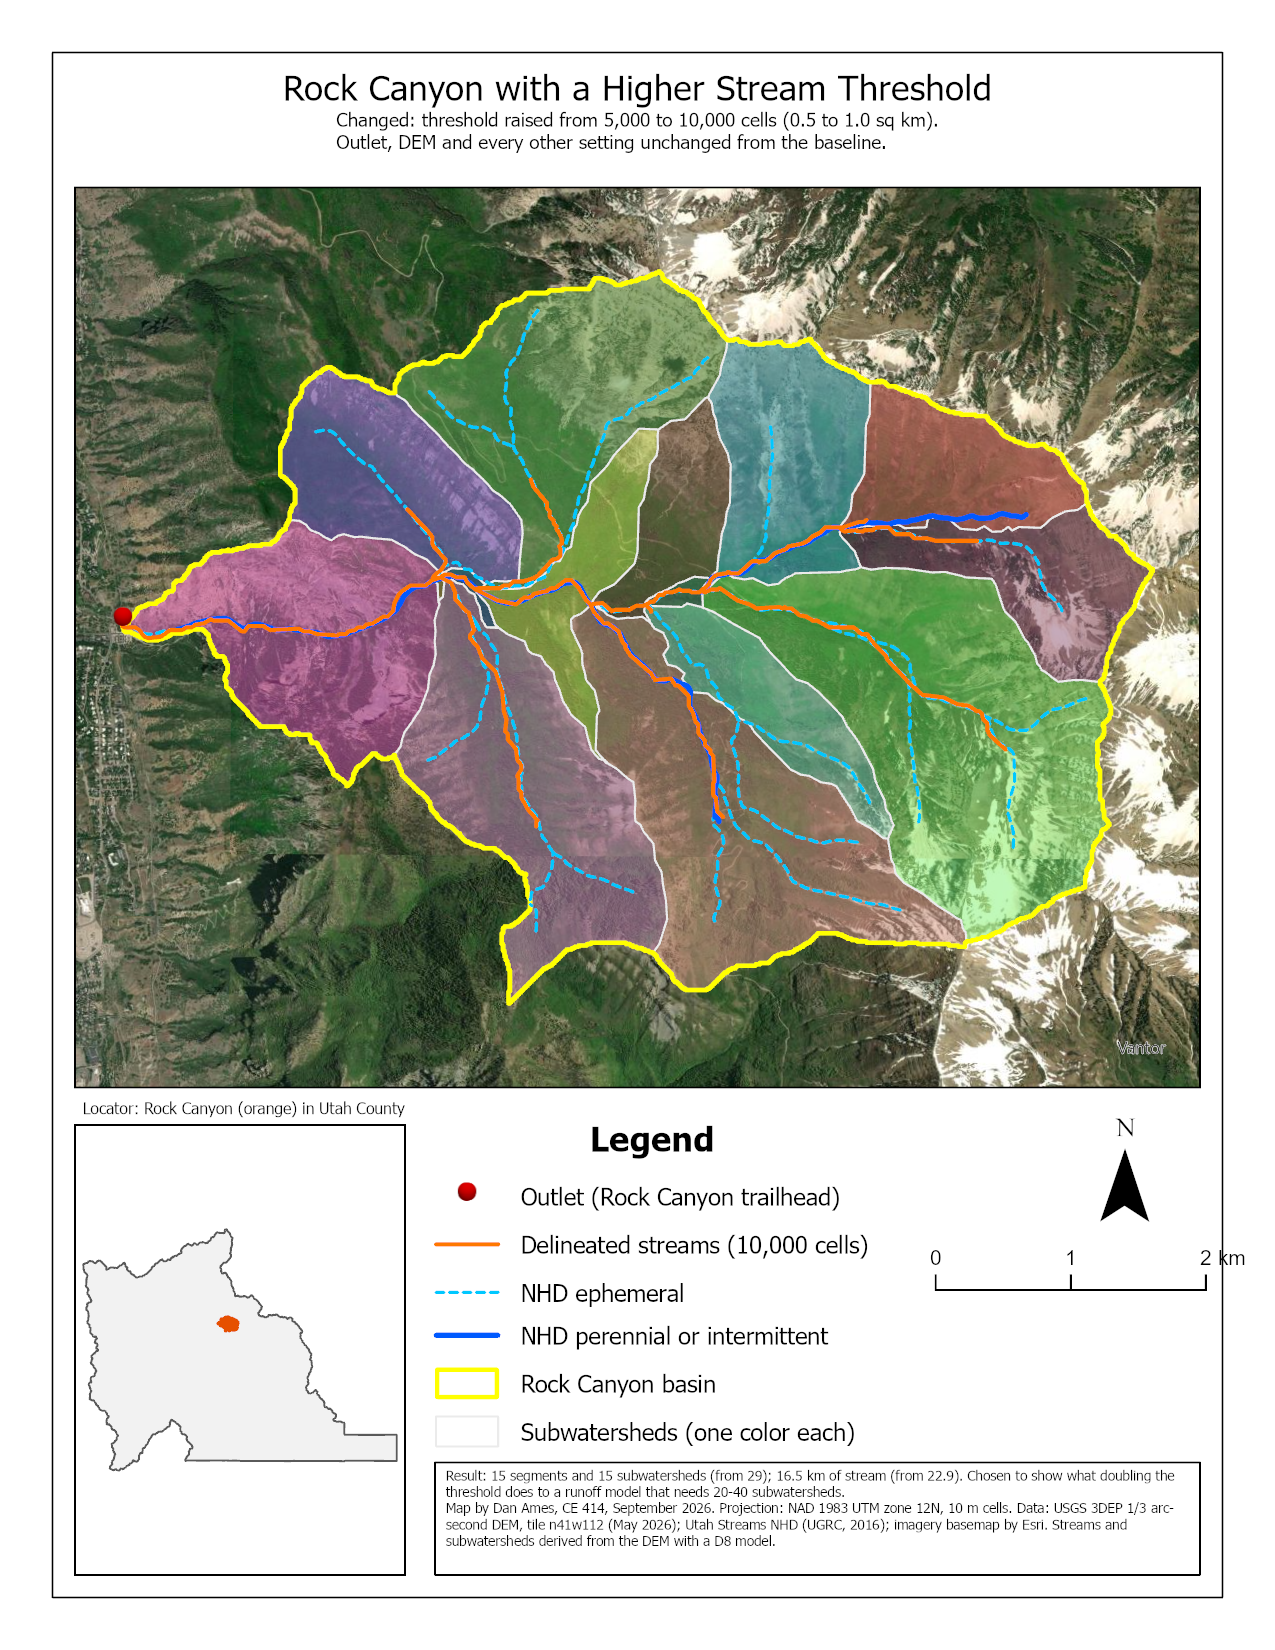
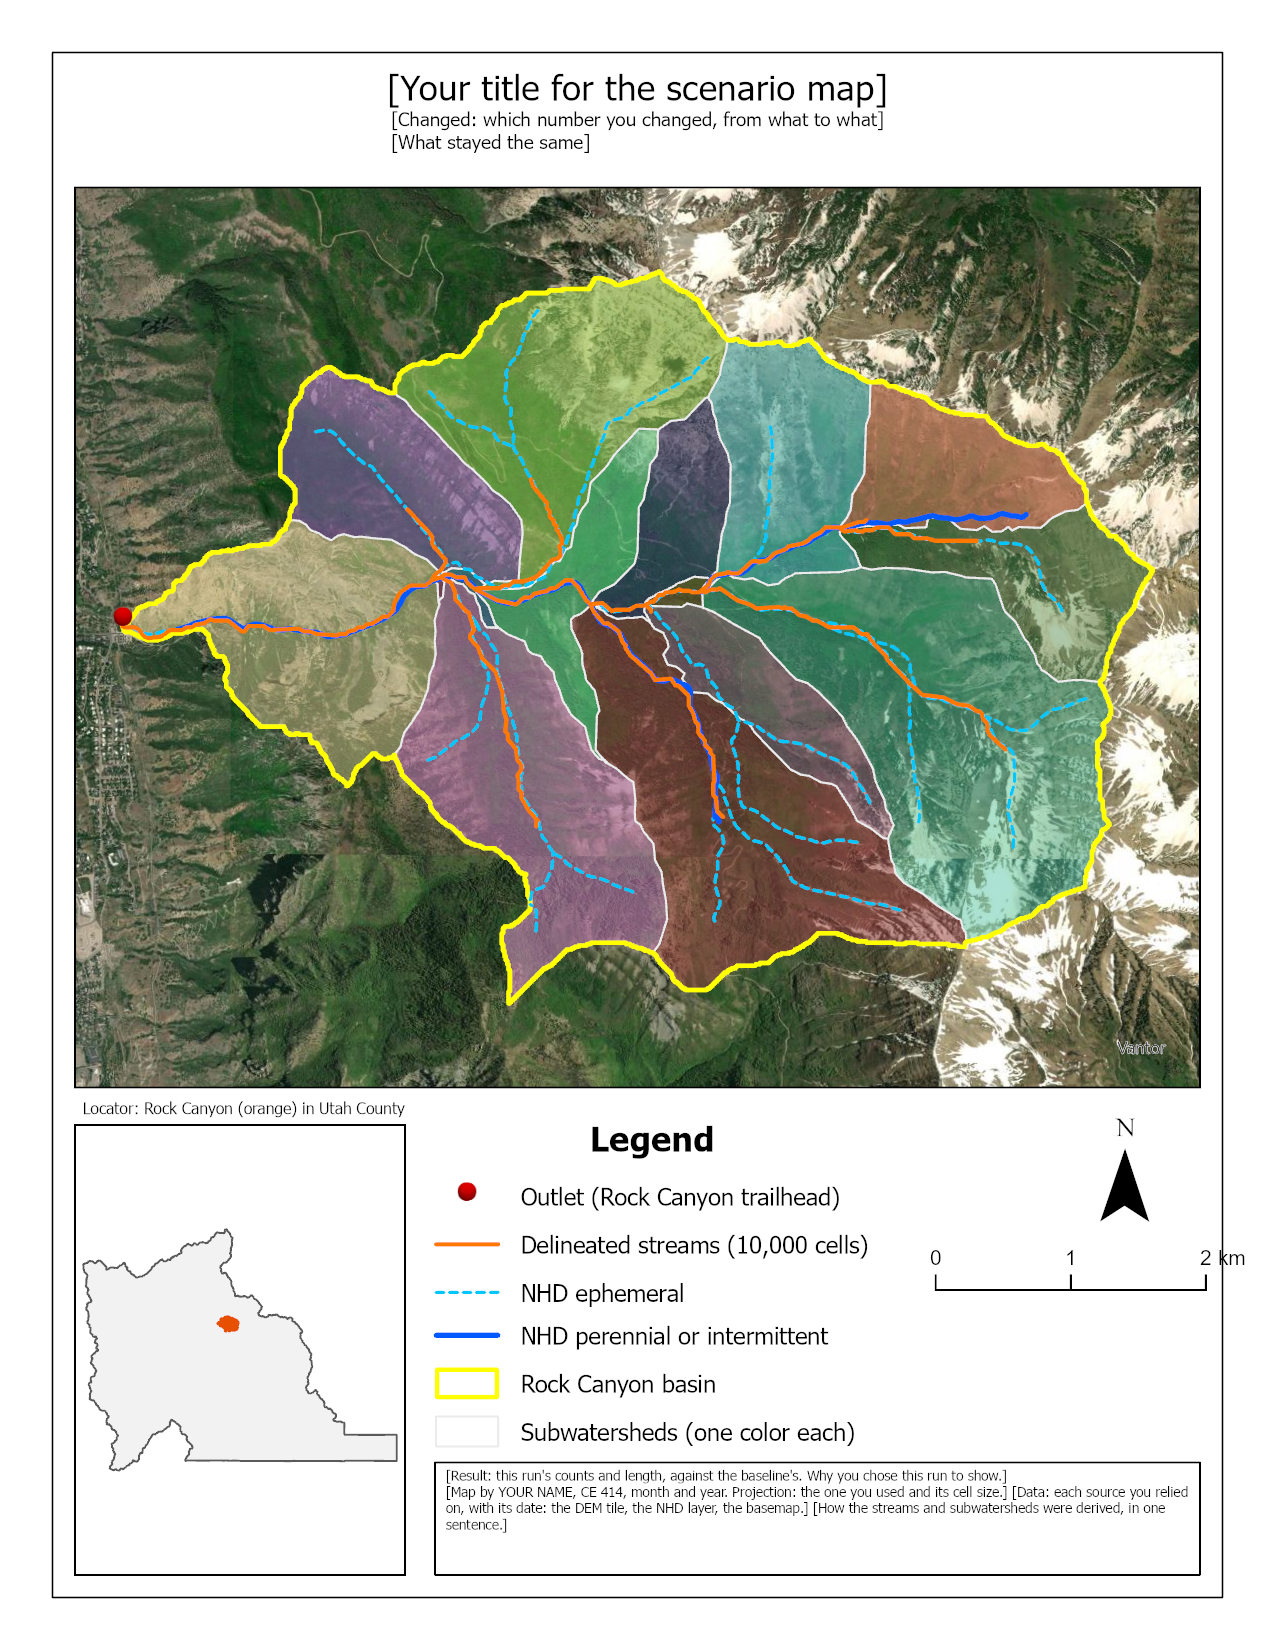
Lab 5: example layouts carry placeholder wording instead of real titles and text
About 20 of 25 Lab 5 reports pasted the example maps' title, subtitle and text box
word for word. The design stays; every string is now a bracketed placeholder that
says what belongs there, and the Example Maps section says so.

Changed region(s): [[0.0918, 0.1545, 0.9176, 0.6182], [0.2141, 0.0309, 0.7953, 0.0927], [0.3365, 0.8655, 0.9176, 0.9582]]

diff --git a/tools/lab05/build_figures.py b/tools/lab05/build_figures.py
@@ -313,25 +313,23 @@ def build_layout(p, title, subtitle, th, lname, notes, fname):
 
 
 def layouts(p):
-    runs = {r["threshold"]: r for r in CV["runs"]}
-    b, s = runs[BASE], runs[SCEN]
-    nhd = CV["nhd_basin"]["km"]
-    common = ["Map by Dan Ames, CE 414, September 2026. Projection: NAD 1983 UTM zone 12N, 10 m cells.",
-              "Data: USGS 3DEP 1/3 arc-second DEM, tile n41w112 (May 2026); Utah Streams NHD (UGRC, 2016);",
-              "imagery basemap by Esri. Streams and subwatersheds derived from the DEM with a D8 model."]
-    build_layout(p, "Streams and Subwatersheds of Rock Canyon, Provo",
-                 f"Baseline: stream threshold {BASE:,} cells (0.5 sq km of contributing area)\n"
-                 f"Basin above the Rock Canyon trailhead: {CV['basin']['km2']:.2f} sq km",
+    # Every piece of wording on the example layouts is a bracketed placeholder on purpose. When the examples
+    # carried real titles, subtitles and a real text box (Fall 2026, Lab 5), about 20 of 25 students pasted
+    # that wording onto their own maps word for word. The design is the example; the words must be theirs.
+    common = ["[Map by YOUR NAME, CE 414, month and year. Projection: the one you used and its cell size.]",
+              "[Data: each source you relied on, with its date: the DEM tile, the NHD layer, the basemap.]",
+              "[How the streams and subwatersheds were derived, in one sentence.]"]
+    build_layout(p, "[Your title: what this map shows, and where]",
+                 "[Your subtitle: the threshold you used, its contributing area, and the basin area]\n"
+                 "[One more line if you need it]",
                  BASE, "Baseline map",
-                 [f"Result: {b['links']} stream segments and {b['subwatersheds']} subwatersheds; {b['stream_km']:.1f} km of stream, against "
-                  f"{nhd:.1f} km in the NHD for the same basin, most of it mapped as ephemeral."] + common,
+                 ["[Result: your segment and subwatershed counts, your stream length, and the NHD length for the same basin.]"] + common,
                  "lab05-example-map-baseline.png")
-    build_layout(p, "Rock Canyon with a Higher Stream Threshold",
-                 f"Changed: threshold raised from {BASE:,} to {SCEN:,} cells (0.5 to 1.0 sq km).\n"
-                 "Outlet, DEM and every other setting unchanged from the baseline.",
+    build_layout(p, "[Your title for the scenario map]",
+                 "[Changed: which number you changed, from what to what]\n"
+                 "[What stayed the same]",
                  SCEN, "Scenario map",
-                 [f"Result: {s['links']} segments and {s['subwatersheds']} subwatersheds (from {b['links']}); {s['stream_km']:.1f} km of stream (from {b['stream_km']:.1f}). "
-                  "Chosen to show what doubling the threshold does to a runoff model that needs 20-40 subwatersheds."] + common,
+                 ["[Result: this run's counts and length, against the baseline's. Why you chose this run to show.]"] + common,
                  "lab05-example-map-scenario.png")
 
 

diff --git a/docs/assignments/lab-05/README.md b/docs/assignments/lab-05/README.md
@@ -604,15 +604,15 @@ Utah Geospatial Resource Center. *Utah Streams NHD* (derived from the USGS Natio
 
 ## Example Maps
 
-Two example layouts follow, one for each map the Deliverables ask for. They were laid out and exported by ArcGIS Pro against the run described on this page. They are examples, not templates: your maps will and must look different, and they must carry your name.
+Two example layouts follow, one for each map the Deliverables ask for. They were laid out and exported by ArcGIS Pro against the run described on this page. They show the *design*: what goes on the page and where. Every piece of wording on them is a bracketed placeholder on purpose. Your title, subtitle and text box are yours to write, from your own run, in your own words. A map that carries these brackets, or a title lifted from anywhere else, is not finished.
 
-![Example baseline layout titled "Streams and Subwatersheds of Rock Canyon, Provo": the basin outlined in yellow over imagery, divided into 29 translucent colored subwatersheds with white edges, the delineated streams in orange, the NHD in blue (dashed for ephemeral), and a red outlet point at the canyon mouth; below, a locator of Utah County with the basin in orange, a legend, north arrow, scale bar in kilometers, and a text box giving 29 segments and 29 subwatersheds, 22.9 km of stream against 37.4 km in the NHD, the author, date, projection and data sources.](images/lab05-example-map-baseline.png)
+![Example baseline layout: the basin outlined in yellow over imagery, divided into 29 translucent colored subwatersheds with white edges, the delineated streams in orange, the NHD in blue (dashed for ephemeral), and a red outlet point at the canyon mouth; below, a locator of Utah County with the basin in orange, a legend, north arrow, scale bar in kilometers, and a text box. The title, subtitle and text box are bracketed placeholders that say what belongs there: a title saying what the map shows and where, a subtitle with the threshold, contributing area and basin area, and a text box with the result, the author, date, projection and data sources.](images/lab05-example-map-baseline.png)
 
-**Figure 15.** The baseline map. Two things to do better than this example: label the peaks and the canyon so a reader can find their way around, and say on the map which of the NHD's lines your model does not reproduce.
+**Figure 15.** The baseline map, with placeholder wording. Two things to do better than this example: label the peaks and the canyon so a reader can find their way around, and say on the map which of the NHD's lines your model does not reproduce.
 
-![Example scenario layout titled "Rock Canyon with a Higher Stream Threshold": the same design with fewer, larger subwatersheds and a sparser orange network that no longer reaches up most side canyons, and a text box stating what changed, the new segment, subwatershed and stream-length figures against the baseline's, and why the run was chosen.](images/lab05-example-map-scenario.png)
+![Example scenario layout: the same design with fewer, larger subwatersheds and a sparser orange network that no longer reaches up most side canyons. The title, subtitle and text box are bracketed placeholders: a title for the scenario, a subtitle saying which number changed, from what to what, and what stayed the same, and a text box with this run's counts and length against the baseline's and why the run was chosen.](images/lab05-example-map-scenario.png)
 
-**Figure 16.** The kind of second map Step 14 asks for: the threshold raised from 5,000 to 10,000 cells, everything else unchanged. Your own second map should be the run that most changes what a reader would conclude, which may not be this one. The title and text box say exactly what was changed and why this run was chosen.
+**Figure 16.** The kind of second map Step 14 asks for: here the threshold was raised from 5,000 to 10,000 cells, everything else unchanged. Your own second map should be the run that most changes what a reader would conclude, which may not be this one. Your title and text box must say exactly what was changed and why you chose that run.
 
 ## Rubric for Watershed Delineation
 
